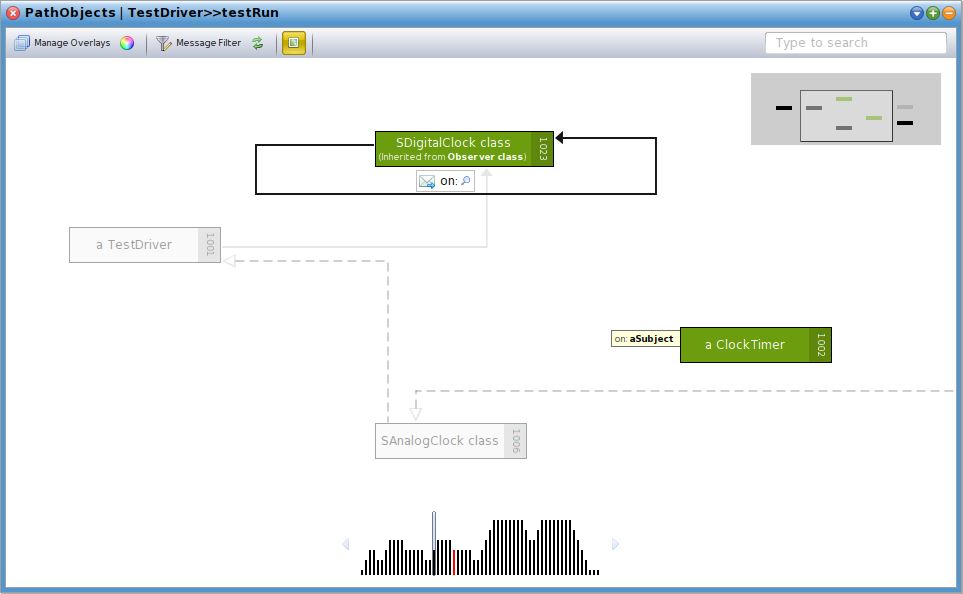
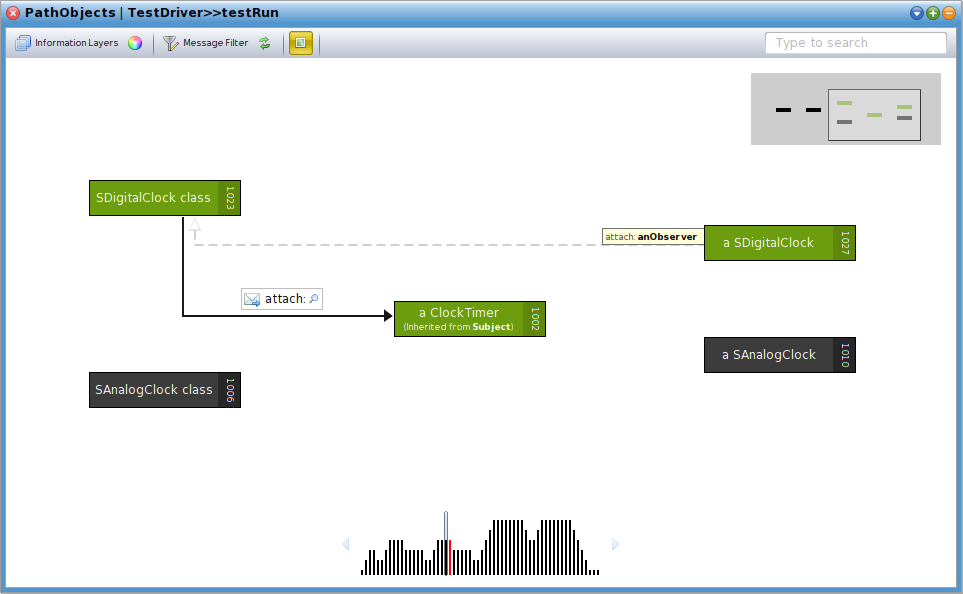
updated implementation screenshot

diff --git a/tex/4-implementation.tex b/tex/4-implementation.tex
@@ -28,6 +28,10 @@ Finally, Section \ref{s:ImplementationLayouting} illustrates how \textsc{PathObj
 	\label{fig:ImplementationExplorationBasic}
 \end{figure}
 
+Figure \ref{fig:ImplementationMainWindow} shows our implementation of \textsc{PathObjects} for the Squeak/Smalltalk environment.
+
+
+
 Figure \ref{fig:ImplementationExplorationBasic} shows the basic visualization of object interactions that allows developers to explore the behavior of a system.
 Objects that are involved in the current step of the execution are emphasized through green background color (in the given example, all shown objects are involved).
 The current message send is indicated through a black arrow, and the previous three steps are drawn in lighter colors.
